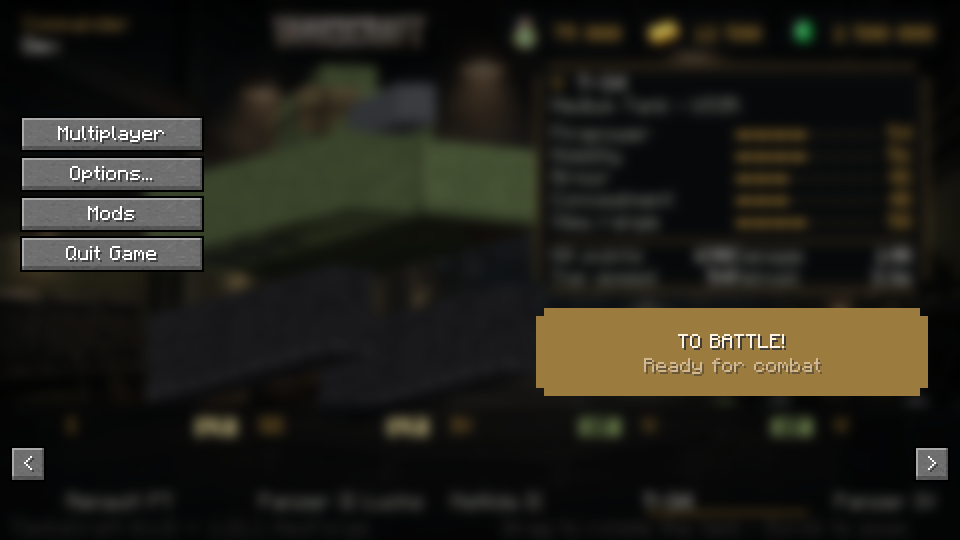
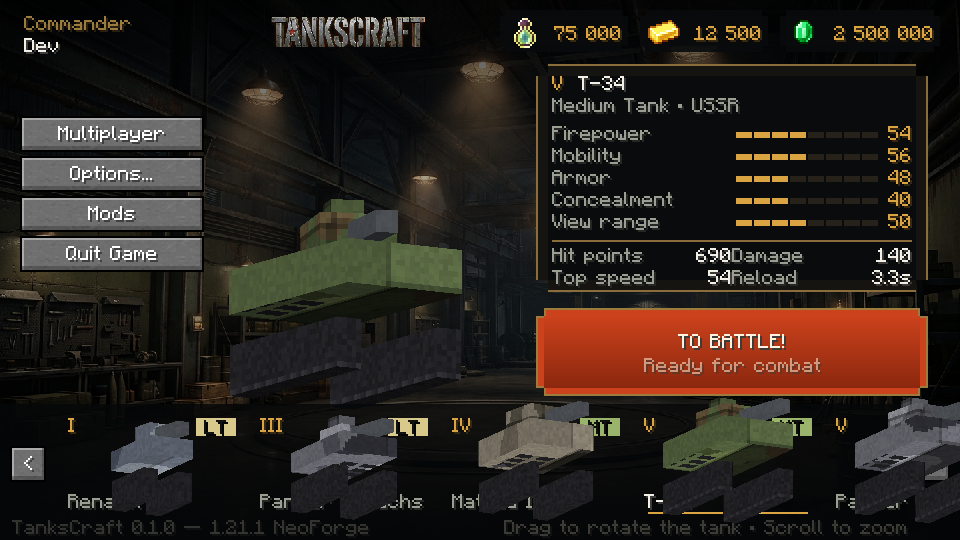
docs: screenshot final du garage validé (bouton rouge, vedette, mini-chars) + README à jour
Screenshot du commit ecc58f0 (smoke test CI), validation pixel:
bouton rouge #AB3415 + bordure or #9C7B3E, vedette verte 2367 px,
5/5 mini-chars carrousel, menu vanilla, texte 'Au combat'.

diff --git a/README.md b/README.md
@@ -14,12 +14,12 @@
 
 Dès le lancement du jeu, le menu titre vanilla disparaît au profit du hangar :
 
-- **Char 3D animé** au centre de la scène, modèle paramétrique (coque, chenilles, tourelle, canon, frein de bouche, cupule) avec texture de camouflage propre à chaque nation ;
+- **Char 3D animé** au centre-gauche de la scène (façon WoT moderne), modèle paramétrique (coque, chenilles, tourelle, canon, frein de bouche, cupule) avec texture de camouflage propre à chaque nation ;
 - **Rotation à la souris** (glisser) et **zoom molette**, comme dans le garage WoT ;
-- **Carrousel de chars** en bas : 10 chars de 5 nations (France, Allemagne, URSS, États-Unis, Royaume-Uni), tiers I à VII, classes LT / MT / HT / TD ;
-- **Fiche technique** à gauche : puissance de feu, mobilité, blindage, camouflage, portée de vue, PDV, dégâts, vitesse, rechargement ;
+- **Carrousel compact pleine largeur** en bas : 10 chars de 5 nations (France, Allemagne, URSS, États-Unis, Royaume-Uni), tiers I à VII, classes LT / MT / HT / TD — chaque carte embarque son **mini-rendu 3D**, le tier en chiffres romains et le badge de classe ;
+- **Fiche technique à droite** (anthracite + or) : puissance de feu, mobilité, blindage, camouflage, portée de vue, PDV, dégâts, vitesse, rechargement ;
 - **Devises** en haut à droite (crédits, or, XP libre) et profil du commandant en haut à gauche ;
-- **Grand bouton « AU COMBAT ! »** qui ouvre la sélection de monde, plus Multijoueur, Options, Mods et Quitter ;
+- **Grand bouton rouge « AU COMBAT ! »** en bas à droite (chamfreiné, bordure or), qui ouvre la sélection de monde, plus Multijoueur, Options, Mods et Quitter ;
 - Le char sélectionné est **persisté** dans `config/tankscraft-garage.json`.
 
 ## ⚔ Le gameplay
